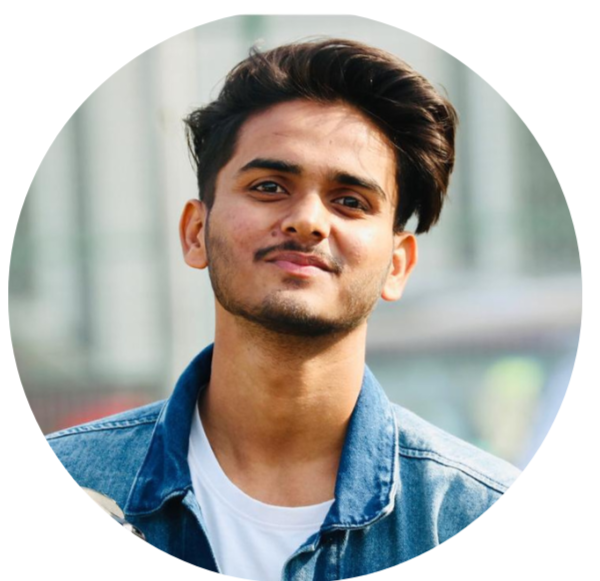
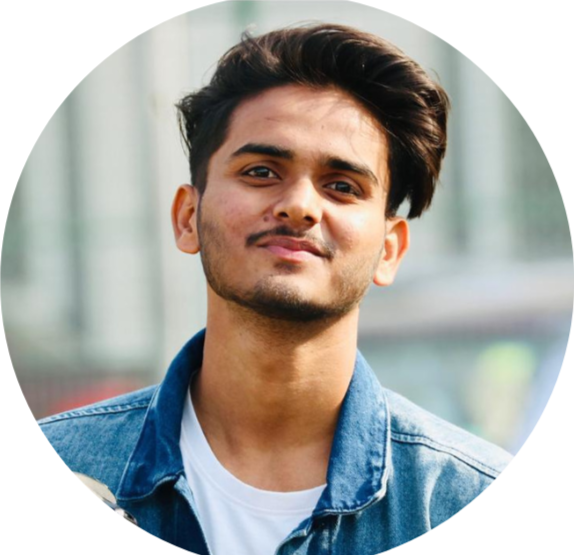
ccc

diff --git a/style.css b/style.css
@@ -196,12 +196,13 @@ html {
 
 }
 #about img{
-  border-radius: 100%;
-  width: 550px;
+  border-radius: 150%;
+  width: 300px;
 
 }
 #textabout{
   font-size: 20px;
+  padding-left: 18px;
 }
 #textabout h5{
   text-transform: uppercase;
